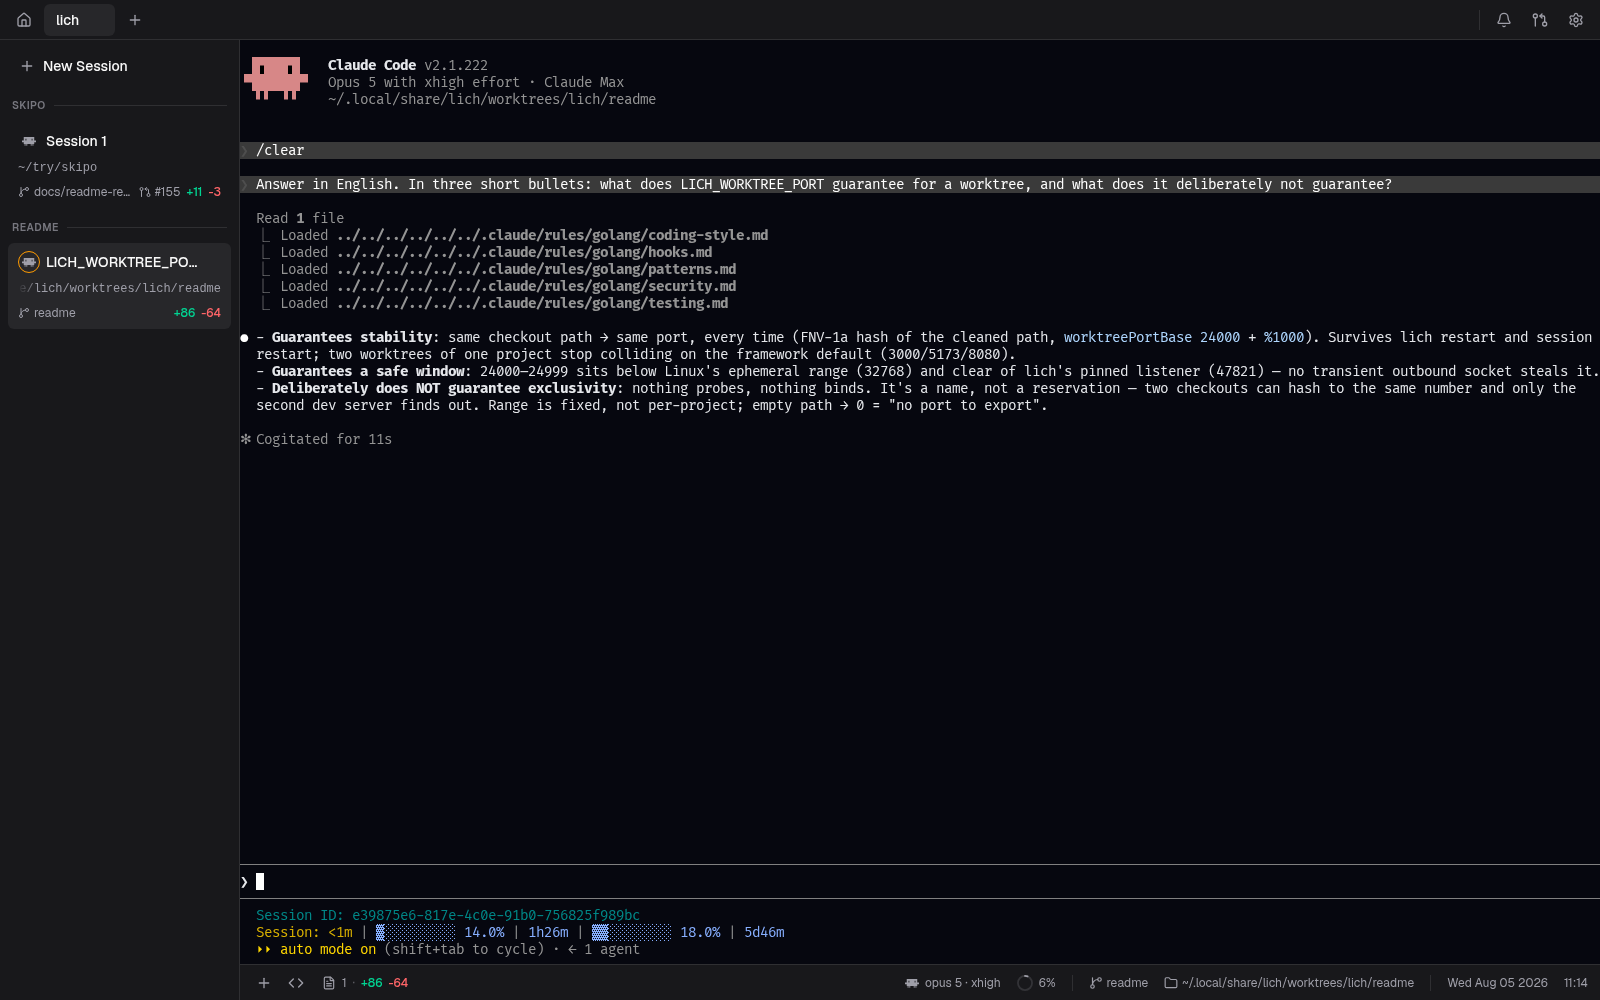
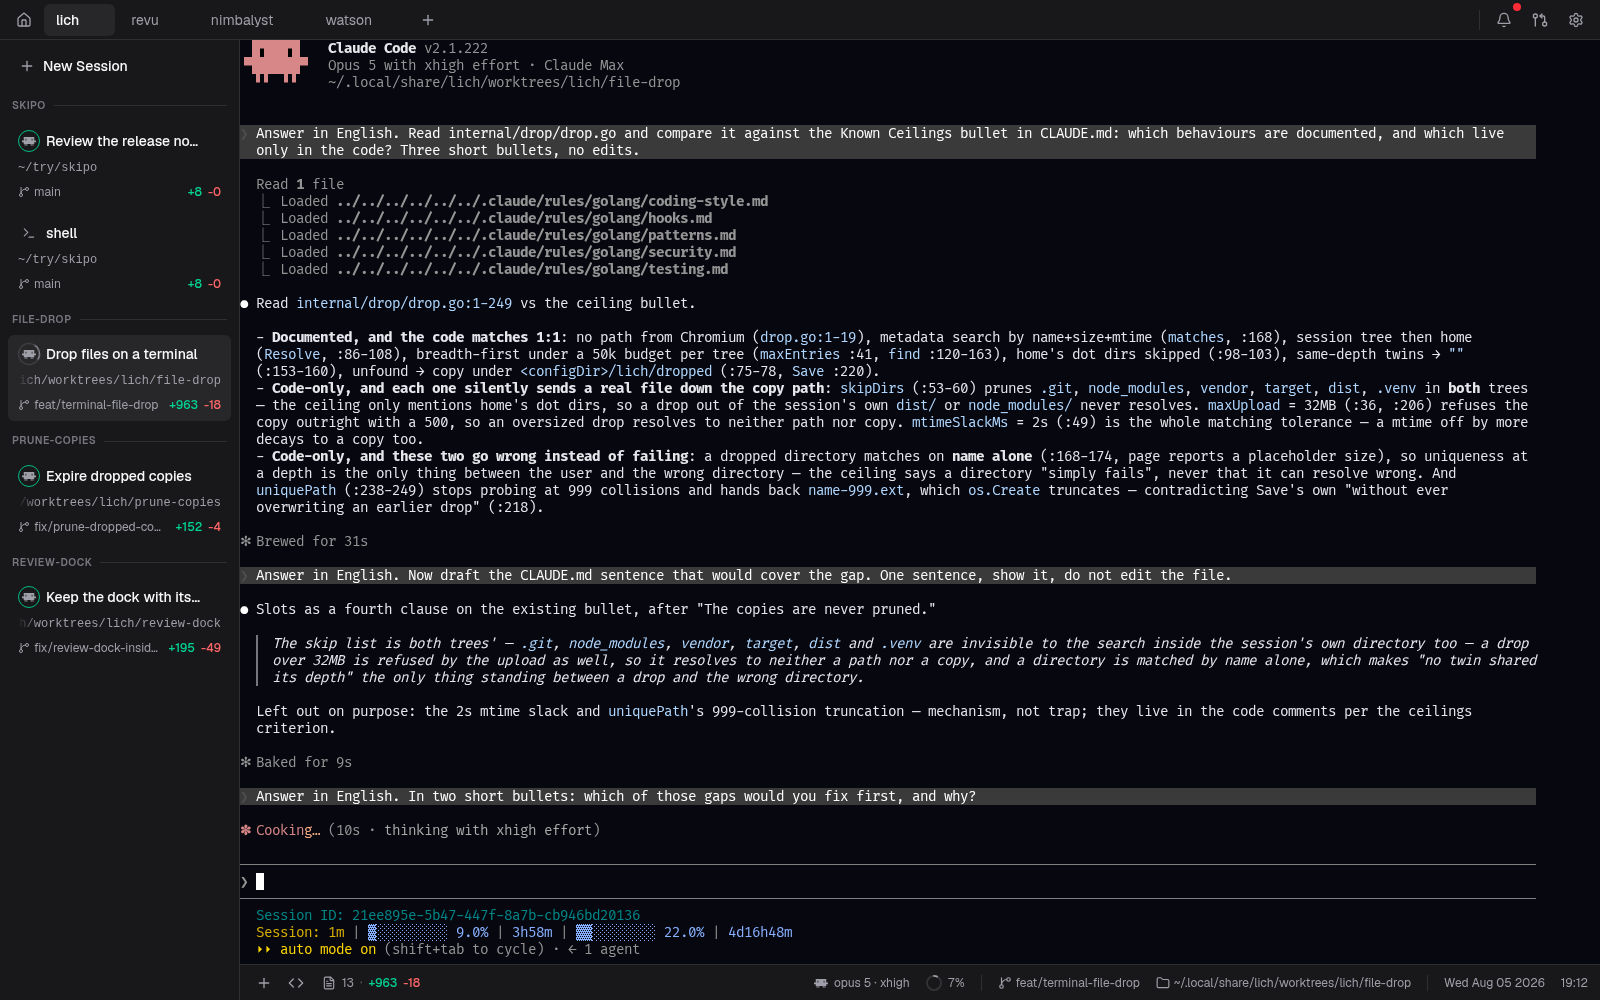
docs: show a full workspace in the README's lead screenshot
The lead image showed one project with two sessions and a mostly empty
terminal, which undersells what the window holds. Reshoot it with four
projects on the tab bar, five sessions across three worktrees — each with
its branch and diff badge — and an agent mid-turn.

Claude-Session: https://claude.ai/code/session_016vafAoTj9t1jgciz9d2JWx

diff --git a/README.md b/README.md
@@ -17,7 +17,7 @@
     <img alt="Platform" src="https://img.shields.io/badge/platform-Linux%20%7C%20macOS%20%7C%20Windows-333" />
     <a href="LICENSE"><img alt="License" src="https://img.shields.io/badge/license-AGPL--3.0-blue" /></a>
   </p>
-  <img src="docs/media/session.png" alt="A Claude Code session running in a lich worktree, with the session card showing its branch and diff badge and the footer showing the model and context ring" width="900" />
+  <img src="docs/media/session.png" alt="Four projects on the tab bar and five sessions in the sidebar — each with its worktree, branch and diff badge — while a Claude Code session works in the terminal and the footer shows the model and context ring" width="900" />
 </div>
 
 ## About
